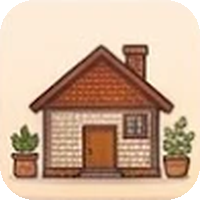
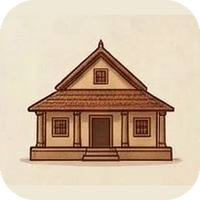
Use the sketch-style cultural tiles for dance, music, pujari and goods
Ten tiles from design/source-sheets/cultural-icons.jpg replace their icons:
Bharatanatyam, Kathak, Kuchipudi, percussion, instruments, griha pravesh,
Satyanarayana vratam, Indian languages, jewelry and pooja items. All 22 are
kept in design/cultural-icons; the rest have no matching subcategory yet.

diff --git a/design/README.md b/design/README.md
@@ -42,3 +42,10 @@ To use a photo instead of a drawing, copy it to `public/categories/` and point `
   folk dancer, e.g. Kathakali or Yakshagana).
 - `source-sheets/category-dance-music.webp`: the four-dancer group, used as the Dance, Music & Sangeetham
   category icon (`public/categories/DANCE_MUSIC.png`).
+- `source-sheets/cultural-icons.jpg`: 22 sketch-style cultural tiles, cut to `cultural-icons/01-…png` … `22-…png`
+  (each centered on its own cream square). In use: 01 Bharatanatyam, 04 Kathak, 05 Percussion, 09 Griha pravesh,
+  11 Satyanarayana vratam, 13 Indian languages, 14 Jewelry, 15 Kuchipudi (dancing on the brass plate), 18
+  Instruments, 19 Pooja items. Spare: Kathakali face, Nataraja, family, brass lamp, mudras, bells, Om, arch,
+  mridangam on a stand, guru with students, temple pillar, temple tank. The bronze statues they replaced are in
+  `dance-statues/`.
+
